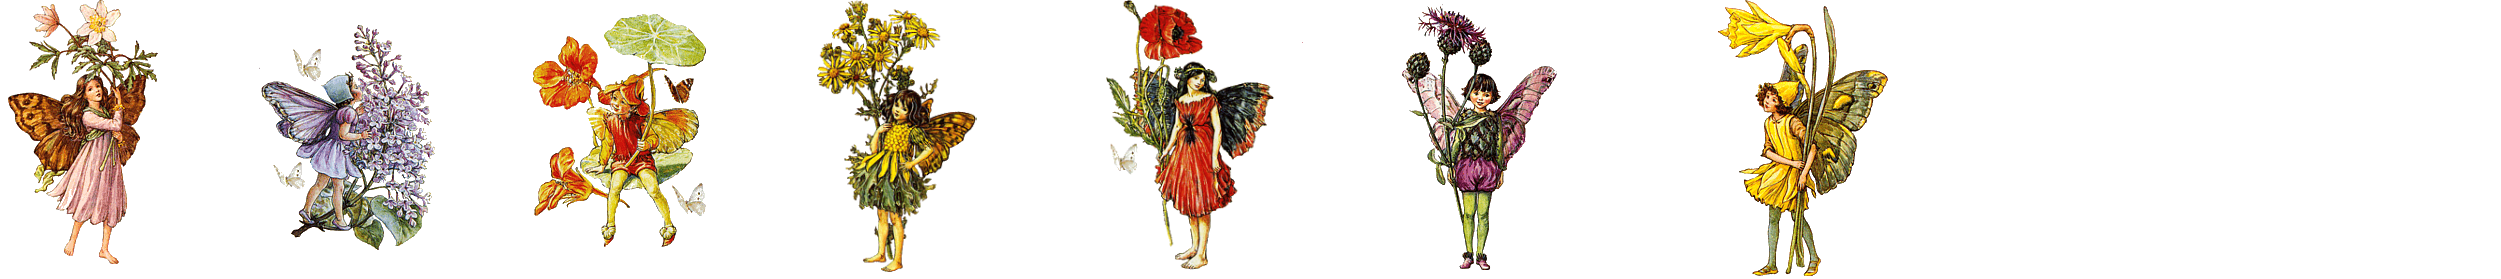
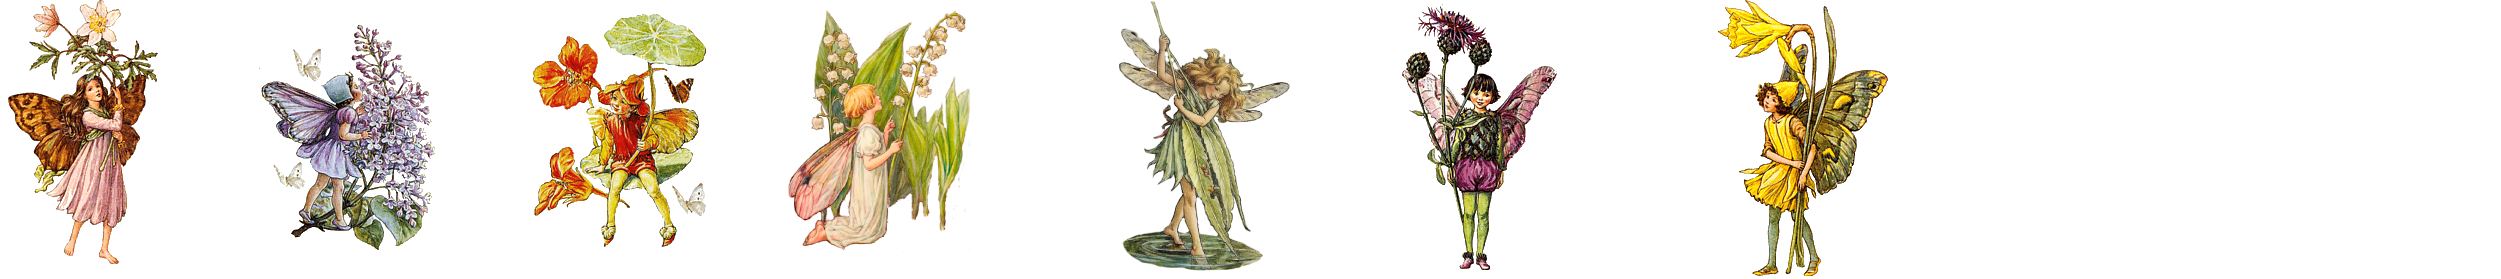
Added favourite fairies

Changed region(s): [[0.3119, 0.0287, 0.4054, 0.9749], [0.4366, 0.0, 0.5302, 0.9749]]

diff --git a/styles.css b/styles.css
@@ -68,8 +68,8 @@ img {
 }
 
 .fairy5 {
-    clip: rect(0, 84vw, 20vw, 66vw);
-    margin-left: -66vw;
+    clip: rect(0, 85.5vw, 20vw, 67.5vw);
+    margin-left: -67.5vw;
 }
 
 .fairy6 {
